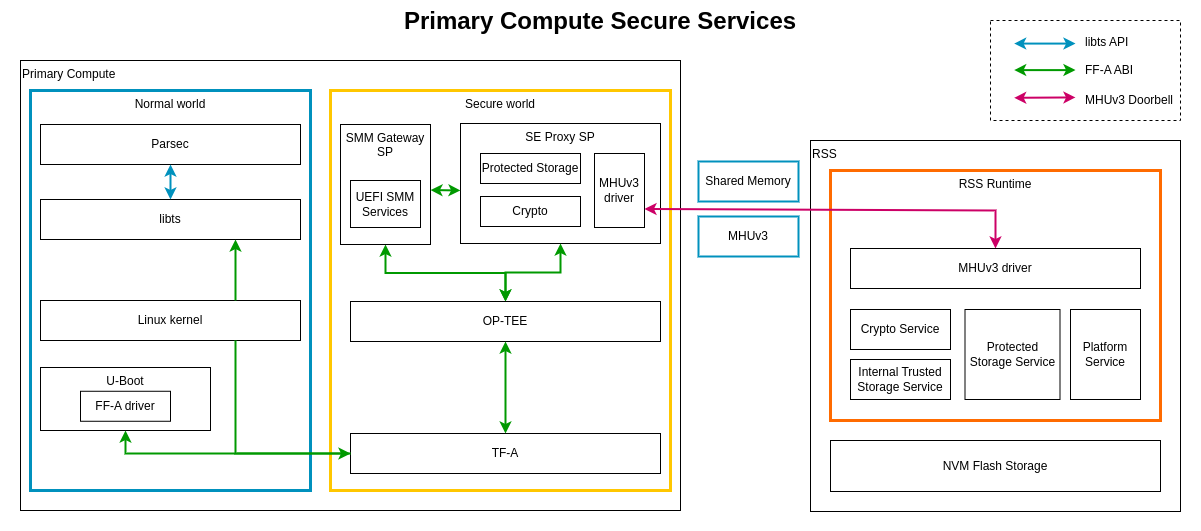
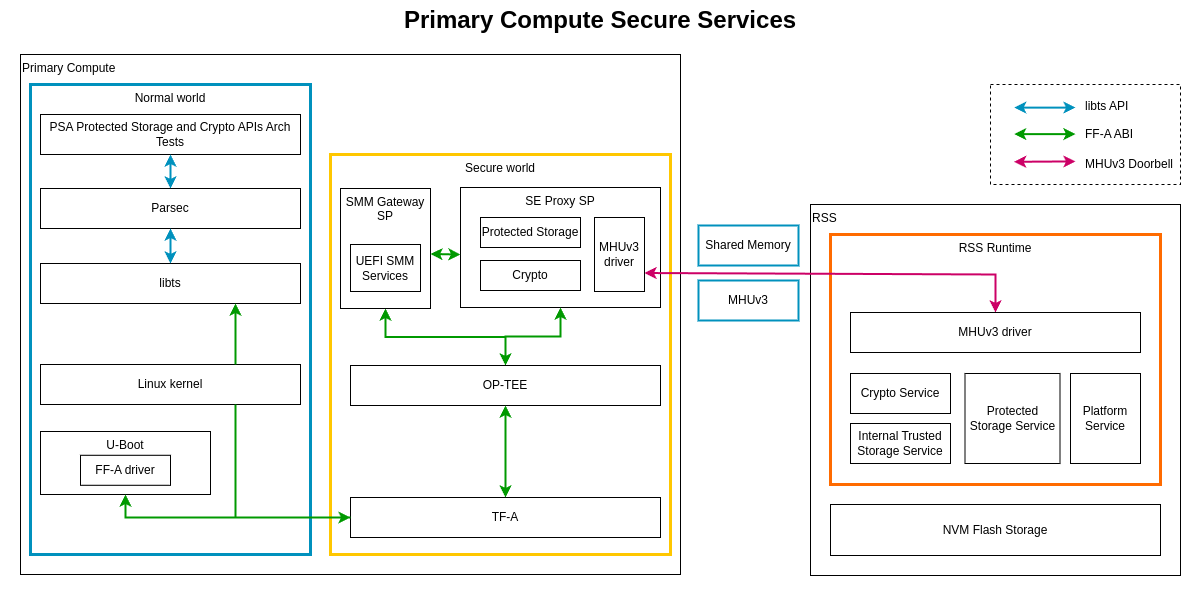
doc: Add PSA on Primary Compute documentation
Add a Primary Compute PSA Crypto and Protected Storage section to the
user guide and reproduce sections.

Changed region(s): [[0.0, 0.0904, 0.9867, 0.9642], [0.3392, 0.0, 0.6783, 0.0603], [0.8325, 0.0603, 0.9558, 0.0904]]

diff --git a/documentation/user_guide/reproduce.rst b/documentation/user_guide/reproduce.rst
@@ -1808,6 +1808,142 @@ The following messages are expected in the output to validate this Use-Case:
 
   RESULTS - test_40_parsec.ParsecTest.test_parsec_demo: PASSED (263.85s)
 
+.. _user_guide_reproduce_pc_psa_ps_crypto_api_test:
+
+Primary Compute PSA Protected Storage and Crypto APIs Architecture Test Suite
+=============================================================================
+
+The demo can be run on the Baremetal Architecture. Refer to
+:ref:`design_primary_compute_secure_services` for more information on this
+application. This demo is included as part of the ``Critical Application
+Monitoring Demo``.
+
+Baremetal Architecture
+----------------------
+
+Build
+^^^^^
+
+To run the configuration menu:
+
+.. code-block:: text
+
+  kas menu kronos/Kconfig
+
+To build a Baremetal Architecture image:
+
+1. Select ``Critical Application Monitoring Demo`` from the ``Use-Case`` menu.
+2. Select ``Baremetal`` from the ``Reference Stack Architecture`` menu.
+3. Select ``Save & Build``.
+
+Run the FVP
+^^^^^^^^^^^
+
+To start the FVP and connect to the Primary Compute terminal (running Linux):
+
+.. code-block:: text
+
+  kas shell -c "../layers/meta-arm/scripts/runfvp -t tmux --verbose"
+
+The user should wait for the system to boot and for the Linux prompt to appear.
+
+The Reference Software Stack running on the Primary Compute can be logged into
+as ``root`` user without a password in the Linux terminal. Run the below
+command to guarantee that all the expected services have been
+initialized.
+
+.. code-block:: text
+
+  systemctl is-system-running --wait
+
+Wait for it to return. The expected terminal output is ``running``.
+
+Run the demo
+^^^^^^^^^^^^
+
+The demo consists of simple tests run from the Linux terminal. Refer to
+:ref:`design_primary_compute_secure_services` for more information on
+this application.
+
+1. Run the PSA Crypto API tests from the Primary Compute terminal using the
+   following command:
+
+   .. code-block:: text
+
+      psa-crypto-api-test
+
+   A message similar to the following should appear:
+
+   .. code-block:: text
+
+      ************ Crypto Suite Report **********
+      TOTAL TESTS     : 59
+      TOTAL PASSED    : 59
+      TOTAL SIM ERROR : 0
+      TOTAL FAILED    : 0
+      TOTAL SKIPPED   : 0
+      ******************************************
+
+
+2. Run the PSA Protected Storage API tests from the Primary Compute terminal
+   using the following command:
+
+   .. code-block:: text
+
+      psa-ps-api-test
+
+   A message similar to the following should appear:
+
+   .. code-block:: text
+
+      ************ Storage Suite Report **********
+      TOTAL TESTS     : 17
+      TOTAL PASSED    : 11
+      TOTAL SIM ERROR : 0
+      TOTAL FAILED    : 0
+      TOTAL SKIPPED   : 6
+      ******************************************
+
+4. To shutdown the FVP and terminate the emulation, issue a ``shutdown now``
+   on the Primary Compute terminal. The below messages indicate the shutdown
+   process is complete.
+
+   .. code-block:: text
+
+      [  OK  ] Finished System Power Off.
+      [  OK  ] Reached target System Power Off.
+      reboot: Power down
+
+Automated Validation
+^^^^^^^^^^^^^^^^^^^^
+
+For more details about the validation of PSA Architecture Test Suite, refer to
+:ref:`validation_trusted_services_tests`.
+
+To run the configuration menu:
+
+.. code-block:: text
+
+  kas menu kronos/Kconfig
+
+To enable the validation tests:
+  1. Select ``Critical Application Monitoring Demo`` as ``Use-Case``.
+  2. Select ``Baremetal Architecture`` from the ``Reference Stack Architecture``
+     menu.
+  3. Select ``Run Automated Validation`` from the ``Runtime Validation Setup``
+     menu.
+  4. Select ``Save & Build``.
+
+The complete test suite takes around 20 minutes to complete on an x86_64
+host. See :ref:`validation_trusted_services_tests` for more details.
+
+The following messages are expected in the output to validate this Use-Case:
+
+.. code-block:: text
+
+   RESULTS - test_50_trusted_services.KronosTrustedServices.test_03_psa_crypto_api_test: PASSED (134.31s)
+   RESULTS - test_50_trusted_services.KronosTrustedServices.test_05_psa_ps_api_test: PASSED (16.88s)
+
 .. _user_guide_reproduce_si_psa_ps_api_test:
 
 Safety Island PSA Secure Storage APIs Architecture Test Suite

diff --git a/documentation/design/validation.rst b/documentation/design/validation.rst
@@ -108,25 +108,6 @@ The BSP Tests consist of a series of device tests that can be found in
    Checks that the watchdog device and its correct driver are available and
    accessible via the filesystem.
 
-.. _design_trusted_services_tests:
-
-Trusted Services Tests
-======================
-
-The meta-arm Yocto layer provides Trusted Service OEQA tests which can be used
-for automated `Trusted Services Test Executables`_. The script that implements
-the test is
-:meta-arm-repo:`meta-arm/lib/oeqa/runtime/cases/trusted_services.py`.
-
-Currently, only the following test cases for `psa-api-test` (from
-the `PSA Arch Tests`_ project) are supported:
-
-* ts-psa-crypto-api-test
-   Used for PSA API conformance testing for `PSA Crypto API`_.
-
-* ts-psa-ps-api-test
-   Used for PSA API conformance testing for `PSA Secure Storage API`_.
-
 Integration Tests Implementation
 ================================
 
@@ -362,6 +343,27 @@ The test consists of the following aspects and will only be run on DomU1:
 
 The testing of interrupt injection is not currently validated for run time
 operations, e.g. file system actions or data transfer.
+
+.. _validation_trusted_services_tests:
+
+Integration Tests Validating Primary Compute PSA APIs Architecture Test Suite
+=============================================================================
+
+The meta-arm Yocto layer provides Trusted Service OEQA tests which can be used
+for automated `Trusted Services Test Executables`_. The script that implements
+the test is
+:meta-arm-repo:`meta-arm/lib/oeqa/runtime/cases/trusted_services.py`.
+
+Currently, only the following test cases for `psa-api-test` (from
+the `PSA Arch Tests`_ project) are supported:
+
+* ts-psa-crypto-api-test
+   Used for PSA API conformance testing for `PSA Crypto API`_.
+
+* ts-psa-ps-api-test
+   Used for PSA API conformance testing for `PSA Secure Storage API`_.
+   Currently only the Protected Storage component of Secure Storage is
+   supported.
 
 .. _validation_psa_arch_tests:
 

diff --git a/documentation/design/secure_services.rst b/documentation/design/secure_services.rst
@@ -31,9 +31,12 @@ to the following specifications:
       the Reference Stack on the Primary Compute.
     * Protected Storage (PS) API: An interface for external protected storage.
 
-***************
-Primary Compute
-***************
+
+.. _design_primary_compute_secure_services:
+
+*******************************
+Primary Compute Secure Services
+*******************************
 
 On Primary Compute, the implementation of `Crypto Service`_ and `Secure Storage
 Service`_ is based on the SE Proxy secure partition.
@@ -63,6 +66,16 @@ the Primary Compute Secure Services.
    :align: center
 
 |
+
+PSA Protected Storage and Crypto APIs Arch Tests
+------------------------------------------------
+
+The PSA Protected Storage and PSA Crypto APIs Arch Tests can be accessed from
+the Primary Compute linux terminal by running a single command for each. The
+test suites execute over around a minute, and a table of results is displayed
+upon completion.
+
+Refer to :ref:`validation_trusted_services_tests` for more information.
 
 Parsec
 ------
@@ -118,9 +131,9 @@ The backend of the SMM services uses the Protected Storage proxy from the
 `SE Proxy SP`_. From there on, the Protected Storage calls are forwarded to the
 secure enclave as explained above.
 
-*************
-Safety Island
-*************
+*****************************
+Safety Island Secure Services
+*****************************
 
 The Safety Island provides the implementation of `Crypto Service`_ and
 `Secure Storage Service`_. The data paths of the services are different.

diff --git a/documentation/overview.rst b/documentation/overview.rst
@@ -222,6 +222,19 @@ carried out by `Parsec`_. While the backend of the Parsec service is based on
 RSS cryptographic runtime service. Refer to
 :ref:`design_applications_parsec_enabled_tls` for more information.
 
+Primary Compute PSA Protected Storage and Crypto APIs Architecture Test Suite
+=============================================================================
+
+The PSA Protected Storage and Crypto architecture test suites are a set of
+examples of the invariant behaviors that are specified in the PSA Protected
+Storage APIs and PSA Crypto APIs specifications respectively.
+
+Both suites are used to verify whether these behaviors are implemented
+correctly in our system. This suites contain self-checking and portable
+C-based tests with directed stimulus.
+
+Refer to :ref:`design_primary_compute_secure_services` for more information.
+
 Safety Island PSA Secure Storage APIs Architecture Test Suite
 =============================================================
 
